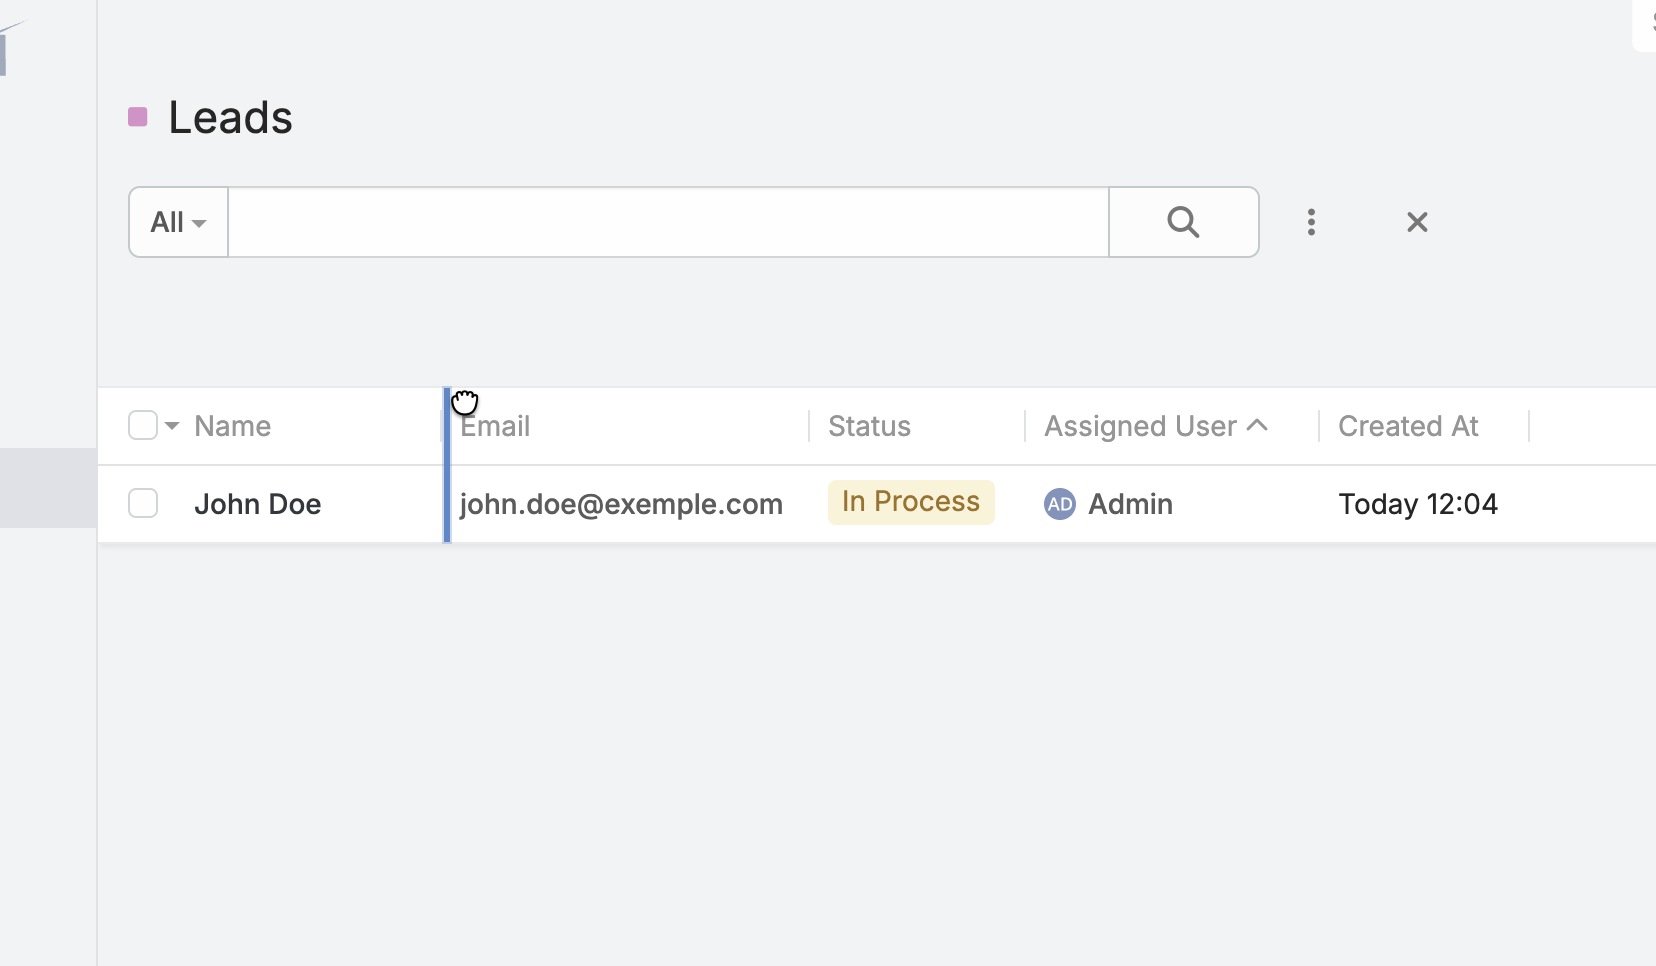
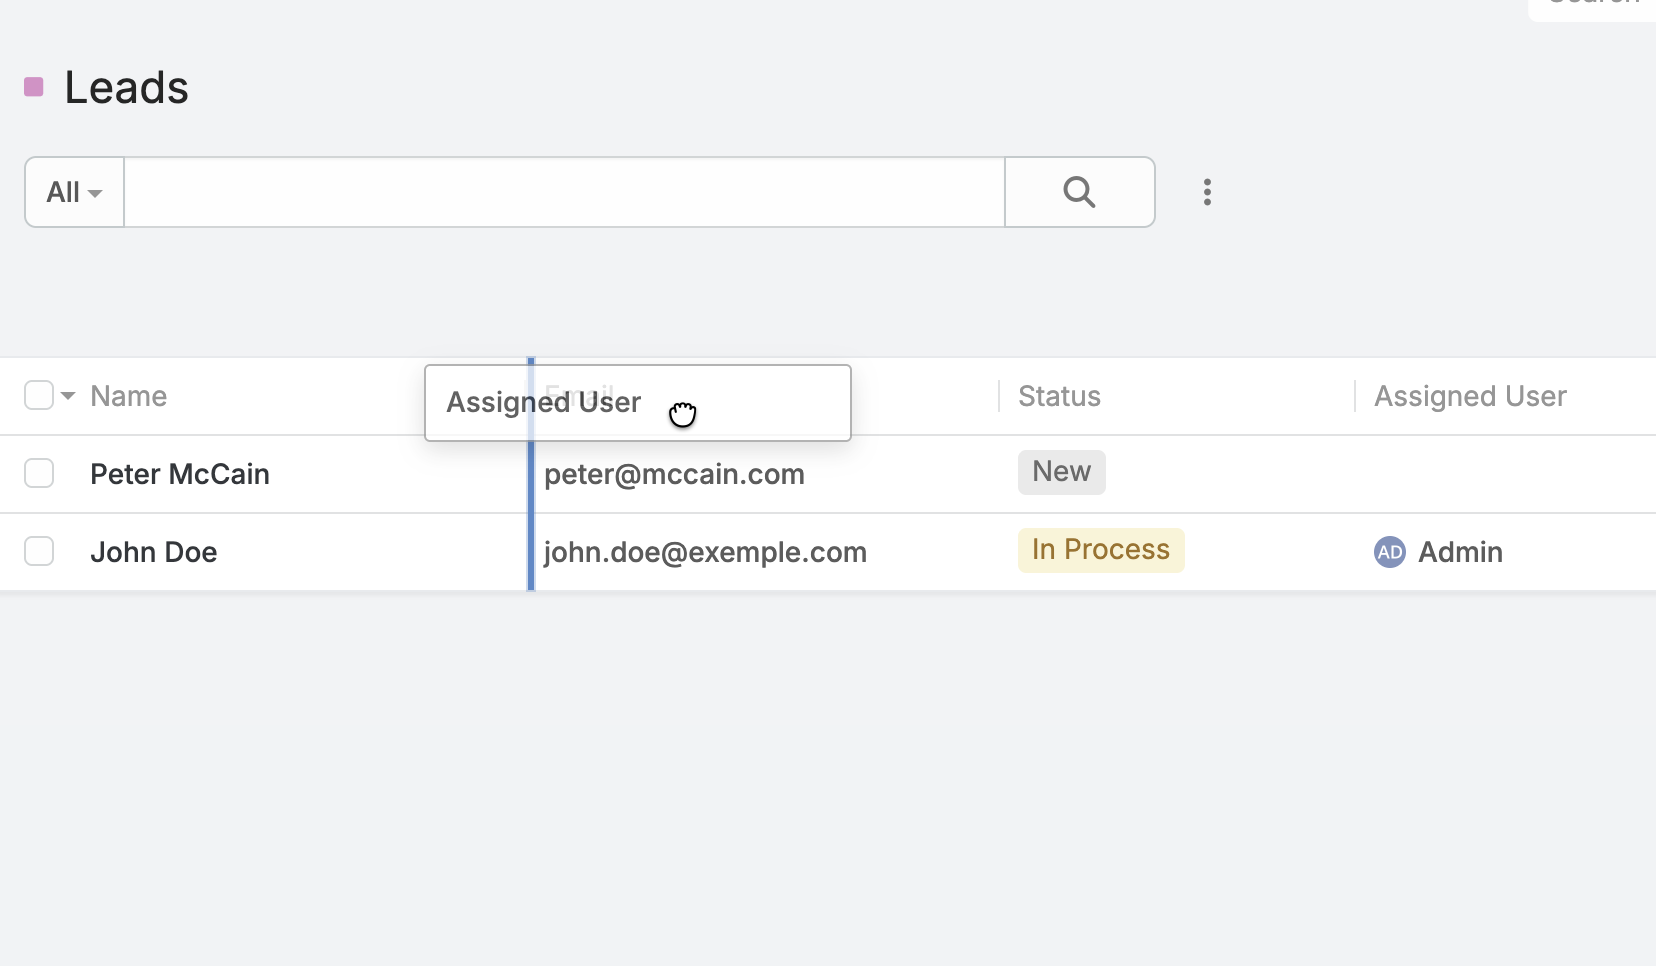
Update column reorder screenshot

diff --git a/README.md b/README.md
@@ -68,7 +68,7 @@ value cannot create an excessively wide column.
 Reordering changes only the current user's presentation. It does not modify
 the administrator's list layout.
 
-![Reordering the Email column](docs/screenshots/reorder-column.png)
+![Dragging the Assigned User header to reorder a column](docs/screenshots/reorder-column.png)
 
 ### Persistent personal layout
 
